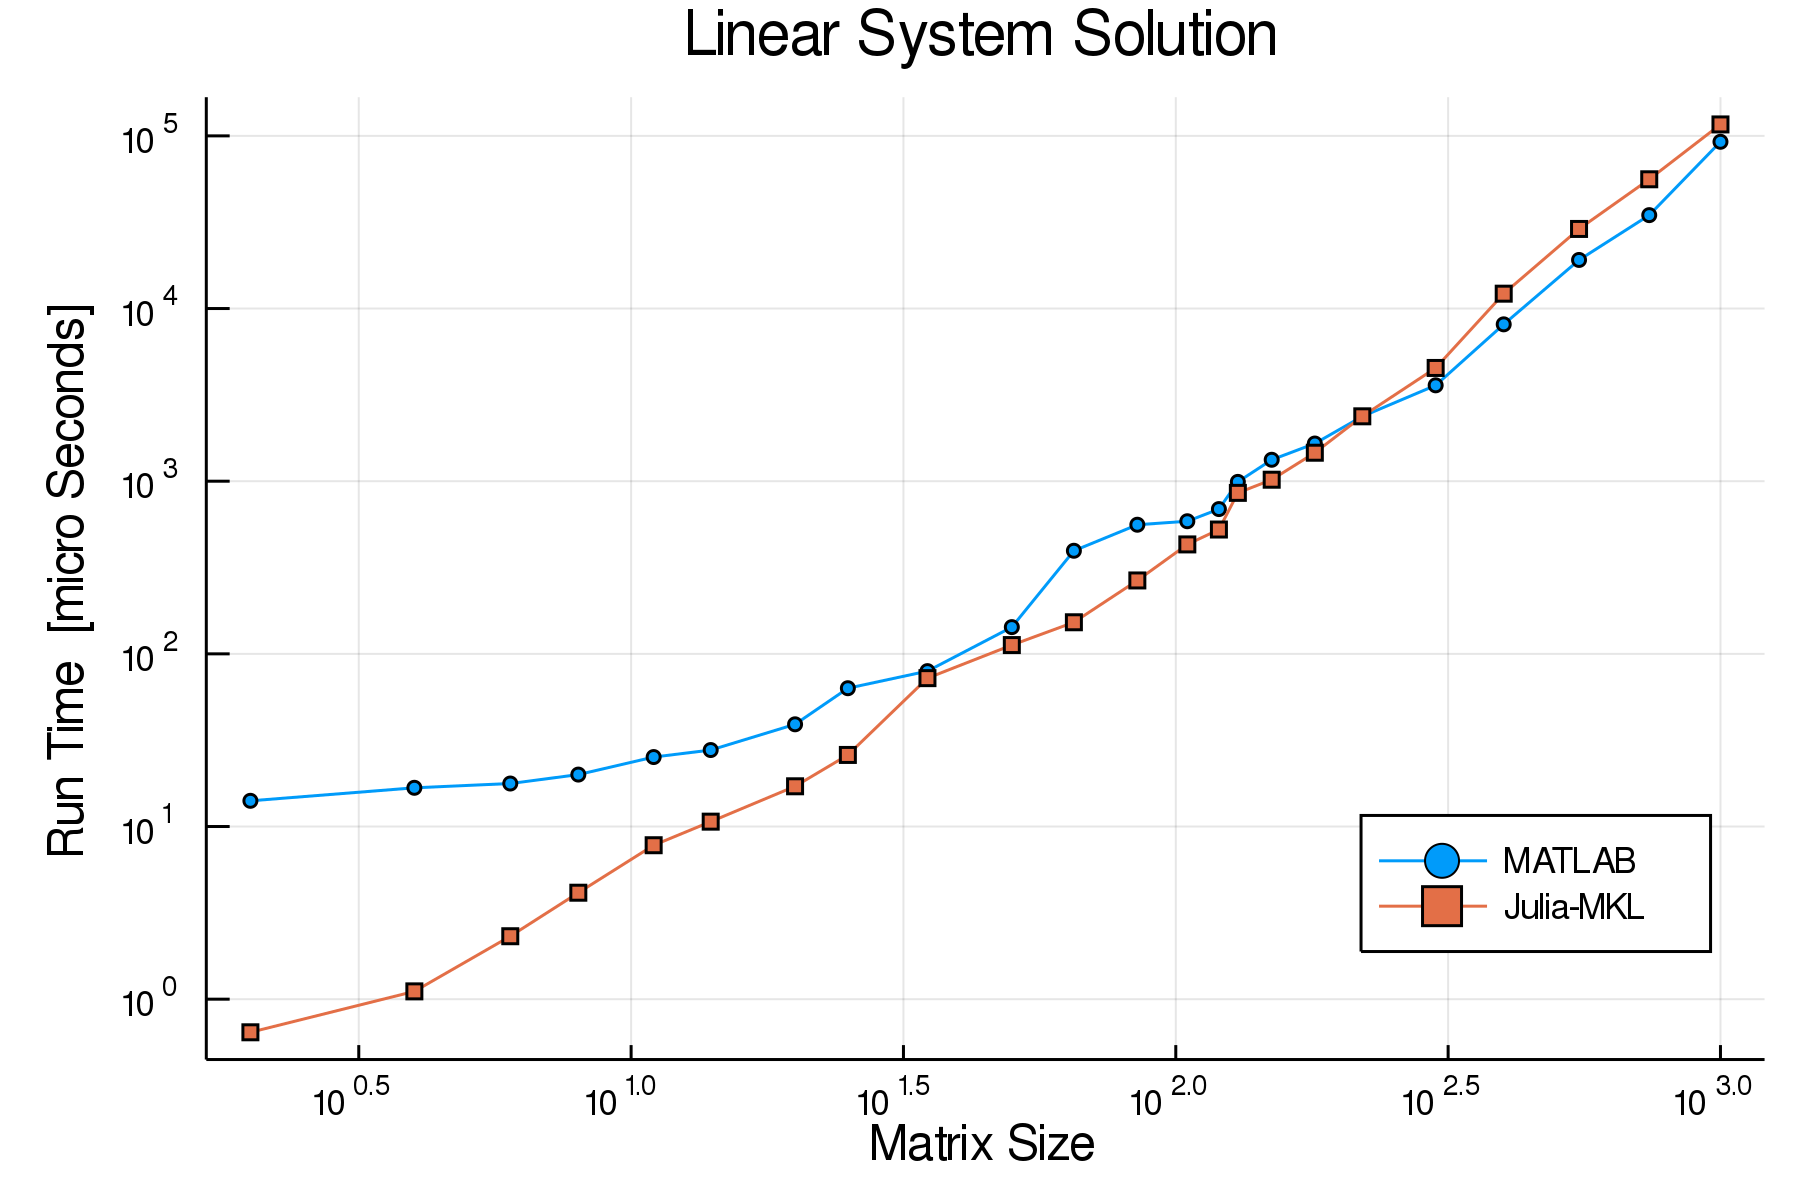
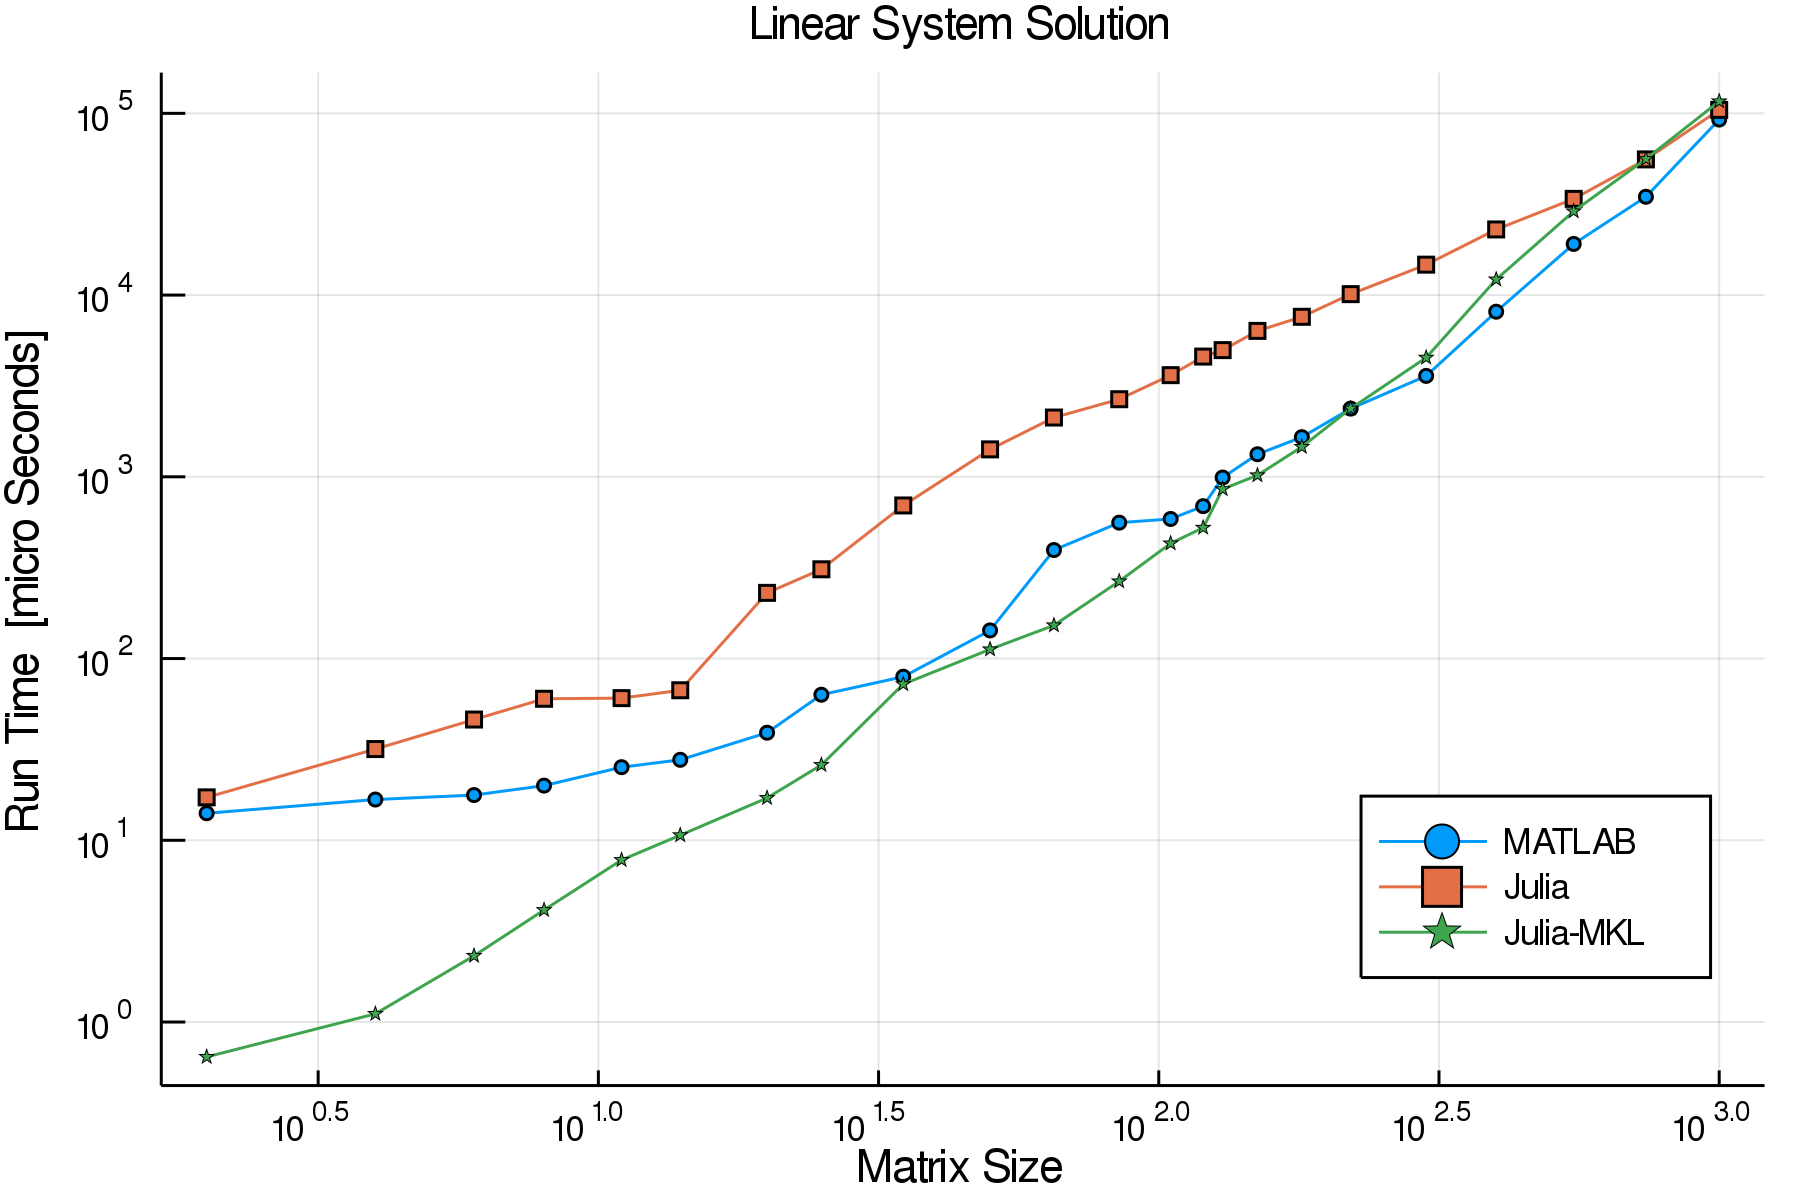
Adding Julia benchmark with default Blas
* Adding Julia benchmark with default Blas (openBlas64)
* removed unnecessary AnalysisInitScript and the logic was added in visualization adjustment
* made Matlab AnalyszeRunTimeResults simpler

diff --git a/AnalyszeRunTimeResults.m b/AnalyszeRunTimeResults.m
@@ -1,10 +1,12 @@
-%% Setting Enviorment Parameters
+close all; clear; clc;
 
-AnalysisInitScript;
+%% Figure Parameters
 
-figureCounterSpec   = '%04d';
-
-generateImages=1;
+figPosSt=struct('default',[100, 100, 0560, 0420],'small',[100, 100, 0400, 0300],'medium',[100, 100, 0800, 0600],'large',[100, 100, 0960, 0720],'xlarge',[100, 100, 1100, 0825],'x2large',[100, 100, 1200, 0900],'x3larg',[100, 100, 1400, 1050]);
+figPos=figPosSt.medium; % fig position identifier
+lineWidthSt=struct('thin',1,'normal',3,'thick',4);
+lineWidth=lineWidthSt.thin; % line width identifier
+saveImage=1; % save image or not
 
 %% Loading Data
 
@@ -12,6 +14,16 @@ tRunTimeMatlab = readtable(fullfile('RunTimeData\', 'RunTimeMatlabTable.csv'));
 mRunTimeMatlab=table2array(tRunTimeMatlab(2:end,2:end));
 vMatrixSizeMatlab=table2array(tRunTimeMatlab(1,2:end));
 sFunNameMatlab=table2array(tRunTimeMatlab(2:end,1));
+
+tRunTimeJulia = readtable(fullfile('RunTimeData\', 'RunTimeJuliaopenblas64Table.csv'));
+mRunTimeJulia=table2array(tRunTimeJulia(2:end,2:end));
+vMatrixSizeJulia=table2array(tRunTimeJulia(1,2:end));
+sFunNameJulia=table2array(tRunTimeJulia(2:end,1));
+
+tRunTimeJuliaSIMD = readtable(fullfile('RunTimeData\', 'RunTimeJuliaopenblas64SIMDTable.csv'));
+mRunTimeJuliaSIMD=table2array(tRunTimeJuliaSIMD(2:end,2:end));
+vMatrixSizeJuliaSIMD=table2array(tRunTimeJuliaSIMD(1,2:end));
+sFunNameJuliaSIMD=table2array(tRunTimeJuliaSIMD(2:end,1));
 
 tRunTimeJuliamkl = readtable(fullfile('RunTimeData\', 'RunTimeJuliamklTable.csv'));
 mRunTimeJuliamkl=table2array(tRunTimeJuliamkl(2:end,2:end));
@@ -23,38 +35,37 @@ mRunTimeJuliamklSIMD=table2array(tRunTimeJuliamklSIMD(2:end,2:end));
 vMatrixSizeJuliamklSIMD=table2array(tRunTimeJuliamklSIMD(1,2:end));
 sFunNameJuliamklSIMD=table2array(tRunTimeJuliamklSIMD(2:end,1));
 
+
 %% Displaying Results
 figureIdx           = 0;
 
 for ii = 1:size(mRunTimeMatlab,1)
 
     figureIdx   = figureIdx + 1;
-    hFigure     = figure('Position', figPosMedium);
+    hFigure     = figure('Position', figPos);
     hAxes       = axes();
 
-    loglog(vMatrixSizeMatlab,mRunTimeMatlab(ii,:),'-o','LineWidth',lineWidthThin,'MarkerFaceColor','b'); hold on;
-    loglog(vMatrixSizeJuliamkl,mRunTimeJuliamkl(ii,:),'-s','LineWidth',lineWidthThin,'MarkerFaceColor','r'); hold on;
-    plotJuliaSIMD=ismember( sFunNameJuliamklSIMD, sFunNameMatlab{ii} ); % if 1 will plot JuliaSIMD
+    loglog(vMatrixSizeMatlab,mRunTimeMatlab(ii,:),'-o','LineWidth',lineWidth,'MarkerFaceColor','b'); hold on;
+    loglog(vMatrixSizeJulia,mRunTimeJulia(ii,:),'-s','LineWidth',lineWidth,'MarkerFaceColor','r'); hold on;
+    loglog(vMatrixSizeJuliamkl,mRunTimeJuliamkl(ii,:),'-p','LineWidth',lineWidth,'MarkerFaceColor','g'); hold on;
+
+    plotJuliaSIMD=ismember( sFunNameJuliamklSIMD, sFunNameMatlab{ii} ); % if 1 will plot Julia-SIMD
     if any(plotJuliaSIMD)
-        h=loglog(vMatrixSizeJuliamklSIMD,mRunTimeJuliamklSIMD(plotJuliaSIMD,:),'-*','LineWidth',lineWidthThin,'MarkerFaceColor','y');
-        legend('MATLAB','Julia-MKL','Julia-MKL-SIMD','Location','southeast')
+    	  loglog(vMatrixSizeJuliaSIMD,mRunTimeJuliaSIMD(plotJuliaSIMD,:),'-d','LineWidth',lineWidth,'MarkerFaceColor',[0.5,0,0.5]); hold on;
+        h=loglog(vMatrixSizeJuliamklSIMD,mRunTimeJuliamklSIMD(plotJuliaSIMD,:),'-h','LineWidth',lineWidth,'MarkerFaceColor',[0.5,0.5,0]); hold on;
+
+        legend('MATLAB','Julia','Julia-MKL','Julia-SIMD','Julia-MKL-SIMD','Location','southeast')
     else
-        legend('MATLAB','Julia-MKL','Location','southeast')
+        legend('MATLAB','Julia','Julia-MKL','Location','southeast')
     end
     hold off;
     title(num2str(sFunNameMatlab{ii}));
     xlabel('Matrix Size');
     ylabel('Run Time  [micro Seconds]');
 
-    if(generateImages == 1)
+    if(saveImage == 1)
         set(hAxes, 'LooseInset', [0.05, 0.05, 0.05, 0.05]);
-        saveas(hFigure,['Figures\Figure', num2str(figureIdx, figureCounterSpec), '.png']);
+        saveas(hFigure,['Figures\Figure', num2str(figureIdx), '.png']);
     end
 
 end
-
-
-%% Restoring Defaults
-
-% set(0, 'DefaultFigureWindowStyle', 'normal');
-% set(0, 'DefaultAxesLooseInset', defaultLooseInset);

diff --git a/README.md b/README.md
@@ -2,8 +2,9 @@
 
 ## Updated by Amin Yahyaabadi:
    * Julia language used is updated to V 1.1.1
+   * Both Julia and Julia_MKL are tested.
    * Better benchmarking tools are used both in Julia and MATLAB
-   * Many changes and updates are made. For more details refer to changelog files that are included.
+   * Many improvements and updates are made. For more details refer to changelog files: https://github.com/aminya/MatlabJuliaMatrixOperationsBenchmark/blob/master/Changelogs/
 
 This is a small benchmark of some common Matrix Operations (Linear Algebra Oriented).  
 The purpose of this Benchmark is to display Run Time of various commonly used operations by Signal / Image / Data Processing Algorithm Engineers. 
@@ -167,19 +168,32 @@ Running 10 iterations of the K-Means Algorithm.
  https://www.dell.com/en-ca/work/shop/dell-tablets/latitude-5590/spd/latitude-15-5590-laptop
  * CPU - Intel(R) Core(TM) i5-8250U @ 1.6 [GHz] 1800 Mhz, 4 Cores, 8 Logical Processors.
  * Memory - 1x8GB DDR4 2400MHz Non-ECC 
+ * Windows 10 Professional 64 Bit.
+
  * MATLAB R2018b.
     * BLAS Version (`version -blas`) - `Intel(R) Math Kernel Library Version 2018.0.1 Product Build 20171007 for Intel(R) 64 architecture applications, CNR branch AVX2`
     * LAPACK Version (`version -lapack`) - `Intel(R) Math Kernel Library Version 2018.0.1 Product Build 20171007 for Intel(R) 64 architecture applications CNR branch AVX2  Linear Algebra PACKage Version 3.7.0`
-    
- * Julia 1.1.1 + MKL.
+
+Two version of Julia was used:
+
+ * JuliaMKL: Julia 1.1.1 + MKL.
      * Julia Version (`versioninfo()`) - `Julia Version 1.1.1 Commit 55e36cc308 (2019-05-16 04:10 UTC)`;
-     * BLAS Version - `BLAS: Intel MKL `. https://github.com/JuliaComputing/MKL.jl
+     * BLAS Version - `LinearAlgebra.BLAS.vendor(): Intel MKL `. https://github.com/JuliaComputing/MKL.jl , For tutrial to instal: https://github.com/aminya/MKL.jl/tree/patch-1
      * LAPACK Version - `libopenblas64_`.
      * LIBM Version - `libopenlibm`.
      * LLVM Version - `libLLVM-6.0.1 (ORCJIT, skylake)`.
      * JULIA_EDITOR = "C:\~\atom\app-1.38.1\atom.exe"  -a
      * JULIA_NUM_THREADS = 4
- * Windows 10 Professional 64 Bit.
+
+ * Julia: JuliaPro 1.1.1.1
+     * Julia Version (`versioninfo()`) - `Julia Version 1.1.1 Commit 55e36cc308 (2019-05-16 04:10 UTC)`;
+     * BLAS Version - `LinearAlgebra.BLAS.vendor(): openBlas64 `.
+     * LAPACK Version - `libopenblas64_`.
+     * LIBM Version - `libopenlibm`.
+     * LLVM Version - `libLLVM-6.0.1 (ORCJIT, skylake)`.
+     * JULIA_EDITOR = "C:\JuliaPro-1.1.1.1\app-1.36.0\atom.exe"  -a
+     * JULIA_NUM_THREADS = 4
+
 
 ## How to Run
 ### Run the Benchmark - Julia
@@ -198,7 +212,7 @@ MatlabMain
 
 ### Run The Analysis In MATLAB
 
- * Download `AnalysisInitScript.m`and `AnalyszeRunTimeResults.m`.
+ * Download `AnalyszeRunTimeResults.m`.
  * Run both MATLAB and Julia Benchmark to create the CSV files.
  * From MATLAB command line `AnalyszeRunTimeResults`.
  * Images of the performance test will be created and displayed.
@@ -210,36 +224,40 @@ MatlabMain
  * From Julia command line `include("AnalyszeRunTimeResults.jl");`.
  * Images of the performance test will be created and displayed.
 
-## Royi Remarks (old)
+## To Do:
+ * Check if Julia code is efficient. using https://github.com/JunoLab/Traceur.jl and https://docs.julialang.org/en/v1/manual/performance-tips/index.html
+ 
+ * Add more tests (Some real world algorithms)
+     * Orthogonal Matching Pursuit.
+     * Reweighted Iterative Least Squares.
+
+ * Add Python (NumPy): Code has been converted from MATLAB to python using smop. Still needs working https://github.com/aminya/smop
+ * Add Octave.
+
+## Discourse Discusion Forume:
+https://discourse.julialang.org/t/benchmark-matlab-julia-for-matrix-operations/2000
+ 
+  [01]: https://github.com/aminya/MatlabJuliaMatrixOperationsBenchmark/blob/master/Figures/Figure1.png
+  [02]: https://github.com/aminya/MatlabJuliaMatrixOperationsBenchmark/blob/master/Figures/Figure2.png
+  [03]: https://github.com/aminya/MatlabJuliaMatrixOperationsBenchmark/blob/master/Figures/Figure3.png
+  [04]: https://github.com/aminya/MatlabJuliaMatrixOperationsBenchmark/blob/master/Figures/Figure4.png
+  [05]: https://github.com/aminya/MatlabJuliaMatrixOperationsBenchmark/blob/master/Figures/Figure5.png
+  [06]: https://github.com/aminya/MatlabJuliaMatrixOperationsBenchmark/blob/master/Figures/Figure6.png
+  [07]: https://github.com/aminya/MatlabJuliaMatrixOperationsBenchmark/blob/master/Figures/Figure7.png
+  [08]: https://github.com/aminya/MatlabJuliaMatrixOperationsBenchmark/blob/master/Figures/Figure8.png
+  [09]: https://github.com/aminya/MatlabJuliaMatrixOperationsBenchmark/blob/master/Figures/Figure9.png
+  [10]: https://github.com/aminya/MatlabJuliaMatrixOperationsBenchmark/blob/master/Figures/Figure10.png
+  [11]: https://github.com/aminya/MatlabJuliaMatrixOperationsBenchmark/blob/master/Figures/Figure11.png
+  [12]: https://github.com/aminya/MatlabJuliaMatrixOperationsBenchmark/blob/master/Figures/Figure12.png
+  [13]: https://github.com/aminya/MatlabJuliaMatrixOperationsBenchmark/blob/master/Figures/Figure13.png
+  [14]: https://github.com/aminya/MatlabJuliaMatrixOperationsBenchmark/blob/master/Figures/Figure14.png
+  [15]: https://github.com/aminya/MatlabJuliaMatrixOperationsBenchmark/blob/master/Figures/Figure15.png
+  [16]: https://github.com/aminya/MatlabJuliaMatrixOperationsBenchmark/blob/master/Figures/Figure16.png
+  [50]: http://julialang.org/blog/2017/01/moredots
+
+## Old Royi Remarks
  * I'm not an expert in Julia (Actually this was my first time coding Julia). Hence, if there are ways to improve the run time, please share with me. I did took advise from [More Dots: Syntactic Loop Fusion in Julia][50].
  * This is only a small sub set of operations. I will expand it with time. If you have ideas for small micro benchmark to be added, please share.
  * For each function the output was set to dependent on the calculation which was timed to prevent JIT optimizations which excludes the calculation (MATLAB infers the calculation has no effect on the output and doesn't run it).
  * The MATLAB code uses Broadcasting which is a feature added on MATLAB R2016b. Hence the test requires this version or one must adjust the code (Use `bsxfun()`).
  * There is no perfect test and this is far from being one. All it tried to do is measure run time of few common operations done by Signal / Image / Data Processing Algorithm Engineers. If it can assist MATLAB and Julia creators to improve performance and tune their implementation it served it purpose.
-
-## ToDo
- * Check if Julia code is efficient.
- * Add Python (NumPy): Code has been converted from MATLAB to python using smop. Still needs working https://github.com/aminya/smop
- * Add Octave.
- * Add more tests (Some real world algorithms)
-     * Orthogonal Matching Pursuit.
-     * Reweighted Iterative Least Squares.
- * Devectorize Element Wise Operations (Loop Fusion isn't working yet). See <https://discourse.julialang.org/t/benchmark-matlab-julia-for-matrix-operations/2000/7>.
- 
-  [01]: https://github.com/aminya/MatlabJuliaMatrixOperationsBenchmark/blob/master/Figures/Figure0001.png
-  [02]: https://github.com/aminya/MatlabJuliaMatrixOperationsBenchmark/blob/master/Figures/Figure0002.png
-  [03]: https://github.com/aminya/MatlabJuliaMatrixOperationsBenchmark/blob/master/Figures/Figure0003.png
-  [04]: https://github.com/aminya/MatlabJuliaMatrixOperationsBenchmark/blob/master/Figures/Figure0004.png
-  [05]: https://github.com/aminya/MatlabJuliaMatrixOperationsBenchmark/blob/master/Figures/Figure0005.png
-  [06]: https://github.com/aminya/MatlabJuliaMatrixOperationsBenchmark/blob/master/Figures/Figure0006.png
-  [07]: https://github.com/aminya/MatlabJuliaMatrixOperationsBenchmark/blob/master/Figures/Figure0007.png
-  [08]: https://github.com/aminya/MatlabJuliaMatrixOperationsBenchmark/blob/master/Figures/Figure0008.png
-  [09]: https://github.com/aminya/MatlabJuliaMatrixOperationsBenchmark/blob/master/Figures/Figure0009.png
-  [10]: https://github.com/aminya/MatlabJuliaMatrixOperationsBenchmark/blob/master/Figures/Figure0010.png
-  [11]: https://github.com/aminya/MatlabJuliaMatrixOperationsBenchmark/blob/master/Figures/Figure0011.png
-  [12]: https://github.com/aminya/MatlabJuliaMatrixOperationsBenchmark/blob/master/Figures/Figure0012.png
-  [13]: https://github.com/aminya/MatlabJuliaMatrixOperationsBenchmark/blob/master/Figures/Figure0013.png
-  [14]: https://github.com/aminya/MatlabJuliaMatrixOperationsBenchmark/blob/master/Figures/Figure0014.png
-  [15]: https://github.com/aminya/MatlabJuliaMatrixOperationsBenchmark/blob/master/Figures/Figure0015.png
-  [16]: https://github.com/aminya/MatlabJuliaMatrixOperationsBenchmark/blob/master/Figures/Figure0016.png
-  [50]: http://julialang.org/blog/2017/01/moredots
